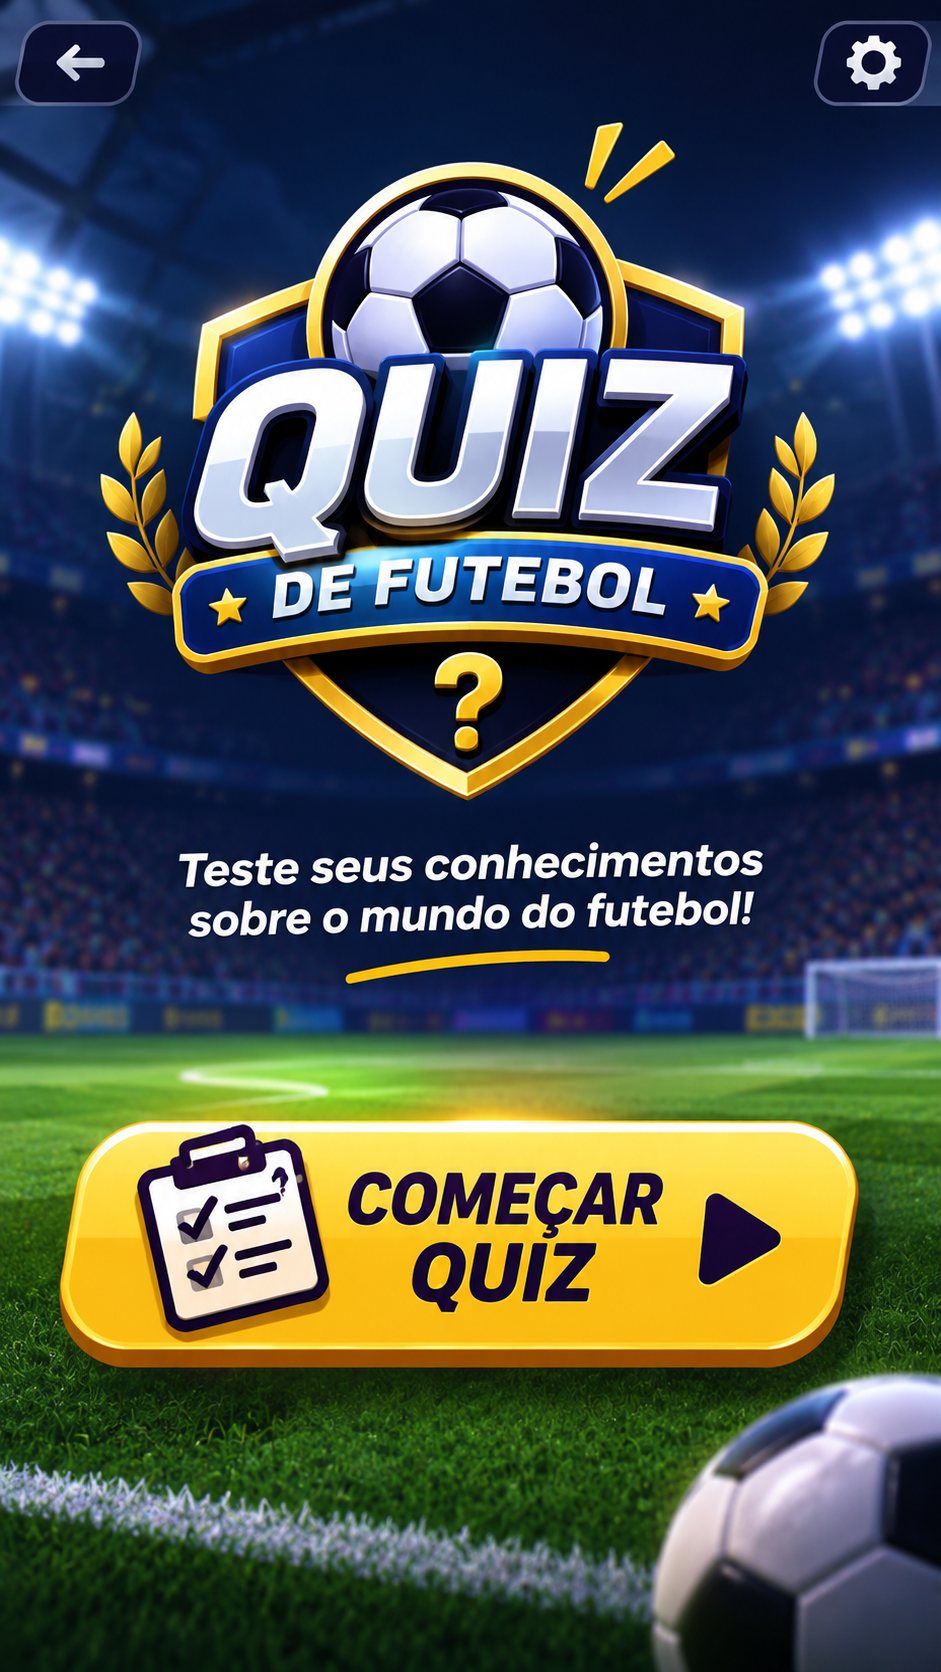
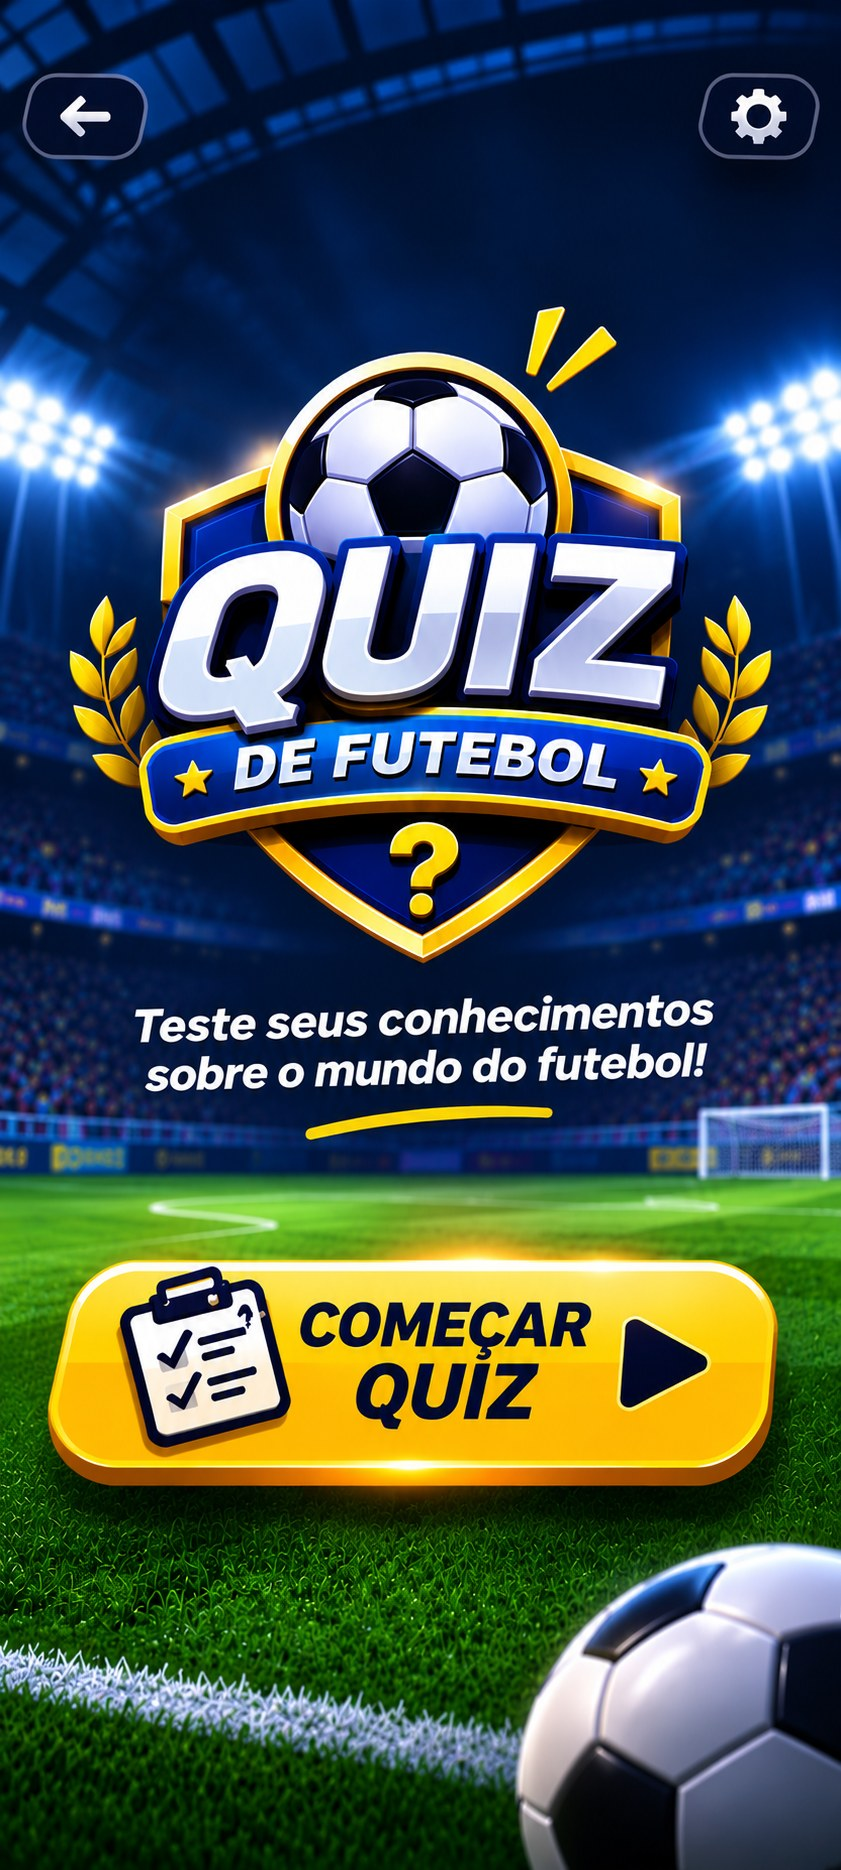
atualiza o jogo

diff --git a/index.html b/index.html
@@ -1098,10 +1098,14 @@ nav.abas button{font-size:11px}
 .modo.quiz{border-color:rgba(108,182,255,.55);background:linear-gradient(90deg,rgba(61,139,255,.16),rgba(10,20,48,.6))}.modo.quiz.pulsa{animation:vivoBrilho 1.2s infinite}
 .qz-capa{position:fixed;inset:0;z-index:5;display:flex;align-items:center;justify-content:center;background:#0b1838;overflow:hidden}
 .qz-capa::before{content:"";position:absolute;inset:-30px;background:url(img/quiz-capa.jpg) center/cover;filter:blur(18px) brightness(.6)}
-.qz-art{position:relative;width:min(100vw,calc(100vh*941/1672));aspect-ratio:941/1672}.qz-art img{width:100%;height:100%;display:block}
+.qz-art{position:relative;width:min(100vw,calc(100vh*841/1870));aspect-ratio:841/1870}.qz-art img{width:100%;height:100%;display:block}
 .qz-hs{position:absolute;background:transparent;border:0;padding:0;cursor:pointer;-webkit-tap-highlight-color:transparent}
-.qz-hs.voltar{left:1.5%;top:1%;width:14%;height:5.6%;border-radius:14px}.qz-hs.engr{left:85.5%;top:1%;width:13.5%;height:5.6%;border-radius:14px}
-.qz-hs.ir{left:6%;top:66.8%;width:86%;height:15%;border-radius:40px;animation:qzIr 1.6s ease-in-out infinite}
+.qz-hs.voltar{left:2.5%;top:3.8%;width:15.5%;height:4.8%;border-radius:14px}.qz-hs.engr{left:82.5%;top:3.8%;width:15%;height:4.8%;border-radius:14px}
+.qz-hs.ir{left:5.23%;top:66.74%;width:87.75%;height:12.19%;border-radius:60px}.qz-hs.ir img{width:100%;height:100%;display:block;pointer-events:none;animation:qzBt 1.1s ease-in-out infinite;transform-origin:center}.qz-hs.ir:active{background:transparent}
+@keyframes qzBt{0%,100%{transform:scale(1);filter:drop-shadow(0 0 0 rgba(255,214,60,0))}12%{transform:scale(1.05)}24%{transform:scale(1)}36%{transform:scale(1.04);filter:drop-shadow(0 0 16px rgba(255,214,60,.8))}50%{transform:scale(1)}}
+.qz-luz{position:absolute;left:7%;top:15.5%;width:86%;height:36.5%;overflow:hidden;pointer-events:none;mix-blend-mode:overlay;-webkit-mask:radial-gradient(ellipse 50% 50% at 50% 50%,#000 70%,transparent 100%);mask:radial-gradient(ellipse 50% 50% at 50% 50%,#000 70%,transparent 100%)}
+.qz-luz::before{content:"";position:absolute;top:-20%;bottom:-20%;left:0;width:35%;background:linear-gradient(100deg,transparent,rgba(255,255,255,.95) 50%,transparent);transform:translateX(-120%) skewX(-18deg);animation:qzLuz 4s ease-in-out infinite}
+@keyframes qzLuz{0%{transform:translateX(-120%) skewX(-18deg)}18%,100%{transform:translateX(320%) skewX(-18deg)}}
 .qz-hs:active{background:rgba(255,255,255,.18)}
 @keyframes qzIr{0%,100%{box-shadow:0 0 0 0 rgba(255,214,60,0)}50%{box-shadow:0 0 26px 6px rgba(255,214,60,.55)}}
 .qz-capa .qz-teste{position:fixed;z-index:6;left:50%;transform:translateX(-50%);bottom:8px}
@@ -1144,7 +1148,9 @@ nav.abas button{font-size:11px}
 @keyframes qzPulsa{0%,100%{transform:scale(1) rotate(0)}25%{transform:scale(1.06) rotate(-3deg)}50%{transform:scale(1.1)}75%{transform:scale(1.06) rotate(3deg)}}
 @keyframes qzGira{to{transform:rotate(360deg)}}
 .qz-caixa .cx-p{width:12px;height:12px;border-radius:3px;left:45%;top:45%;opacity:0;background:var(--c1)}
-.qz-caixa.boom{animation:qzTremeBox .45s linear}.qz-caixa.boom .cx-tampa{animation:qzTampa .6s .4s ease-out forwards}.qz-caixa.boom .cx-corpo,.qz-caixa.boom .cx-fita{animation:qzSome .4s .45s forwards}
+.qz-caixa.boom{animation:qzTremeBox .45s linear}.qz-caixa.boom .cx-tampa{animation:qzTampa .6s .4s ease-out forwards}.qz-caixa.boom .cx-corpo,.qz-caixa.boom .cx-fita{animation:qzSome .4s .45s forwards}.qz-caixa.boom .cx-img{animation:qzCxSai .55s .4s ease-in forwards}
+@keyframes qzCxSai{to{transform:scale(1.5);opacity:0;filter:brightness(2.5)}}
+.qz-caixa .cx-img{position:absolute;left:0;top:0;width:100%;height:100%;object-fit:contain;z-index:2;filter:drop-shadow(0 6px 10px rgba(0,0,0,.5))}
 .qz-caixa.boom .cx-p{animation:qzPart .7s .42s ease-out forwards}
 .qz-caixa.boom .cx-p:nth-of-type(5){--x:-140px;--y:-120px}.qz-caixa.boom .cx-p:nth-of-type(6){--x:140px;--y:-120px}.qz-caixa.boom .cx-p:nth-of-type(7){--x:-170px;--y:30px}.qz-caixa.boom .cx-p:nth-of-type(8){--x:170px;--y:30px}.qz-caixa.boom .cx-p:nth-of-type(9){--x:-60px;--y:-180px}.qz-caixa.boom .cx-p:nth-of-type(10){--x:60px;--y:-180px}
 @keyframes qzTremeBox{0%,100%{transform:scale(1.1)}20%{transform:scale(1.15) rotate(-6deg)}40%{transform:scale(1.2) rotate(6deg)}60%{transform:scale(1.25) rotate(-8deg)}80%{transform:scale(1.3) rotate(8deg)}}
@@ -4906,7 +4912,7 @@ function abrirSeletorCor(inp){
 }
 document.addEventListener("click",ev=>{const i=ev.target.closest&&ev.target.closest('input[type="color"]');if(!i)return;ev.preventDefault();abrirSeletorCor(i)},true);
 /* app instalado: confere se o site tem versão nova e recarrega (o número é trocado pelo publicar-site.sh) */
-const VERSAO="1794859070";
+const VERSAO="1794909116";
 function versaoOk(){if(CARGA.verOk)return;CARGA.verOk=true;if(abertura&&CARGA.intro)render()} // 02/11: a logo só aparece depois de conferir a versão (sem logo dobrada)
 function checarVersao(){
   if(VERSAO.startsWith("__")||!/^https?:/.test(location.protocol)){versaoOk();return}
@@ -10068,7 +10074,7 @@ function quizPremioHTML(pr){if(!pr)return "";
     pts:`<div class="qz-pr-ic qz-coroa">⚽</div><b class="num">${pr.n} atributos</b><span>${(pr.ks||[]).map(k=>{const a=ATRS.find(x=>x[0]===k);return a?a[2]+" "+a[1]:k}).join(" · ")}<br>Use nos seus jogadores em Clube › Pontos de treino</span>`,
     lenda:pr.jog?`<div class="qz-pr-ic">${fotoLendaG(pr.nome,96)}</div><b>★ ${esc(pr.nome)}</b><span>Lenda contratada de graça! Já está no seu elenco.</span>`:pr.tec?`<div class="qz-pr-ic">${tecRosto(pr.nome,96)}</div><b>★ ${esc(pr.nome)}</b><span>Técnico lenda contratado de graça!</span>`:`<div class="qz-pr-ic">★</div><b>Lenda</b>`}[pr.t]||"";
   return `<div class="qz-premio ${pr.t}">${nm}</div>`}
-function caixaHTML(tipo,grande){return `<div class="qz-caixa ${tipo}${grande?" grande":""}"${grande?' data-a="qz_abrir" role="button" aria-label="Abrir a caixa"':""}><i class="cx-luz"></i><i class="cx-tampa"></i><i class="cx-corpo"></i><i class="cx-fita"></i>${grande?'<i class="cx-p"></i><i class="cx-p"></i><i class="cx-p"></i><i class="cx-p"></i><i class="cx-p"></i><i class="cx-p"></i>':""}</div>`}
+function caixaHTML(tipo,grande){return `<div class="qz-caixa ${tipo}${grande?" grande":""}"${grande?' data-a="qz_abrir" role="button" aria-label="Abrir a caixa"':""}><i class="cx-luz"></i><img class="cx-img" src="img/cx-${tipo}.png" alt="">${grande?'<i class="cx-p"></i><i class="cx-p"></i><i class="cx-p"></i><i class="cx-p"></i><i class="cx-p"></i><i class="cx-p"></i>':""}</div>`}
 function telaQuiz(){if(!reLiberado()){aba="jogar";return telaInicio()}const q=quizEstado(),jog=q.fase==="jogando";
   let h=`<div class="qz"><div class="qz-topo">${jog?"<span></span>":`<button class="re-tb" data-a="aba" data-v="jogar">‹ Jogar</button>`}<b class="qz-tit">🧠 Quiz do Dia</b><span></span></div>`;
   if(q.caixa&&!q.aberta){const n=q.pend?q.acAnt:q.ac;
@@ -10083,7 +10089,7 @@ function telaQuiz(){if(!reLiberado()){aba="jogar";return telaInicio()}const q=qu
   else if(q.fase==="fim"){const pr=q.aberta&&q.premio;
     h+=`<div class="qz-meio">${pr?`<p class="qz-tag">Seu prêmio de hoje</p>${quizPremioHTML(pr)}`:q.saiu?`<div class="qz-grande">🚪</div><h2 class="qz-h">Você saiu do jogo</h2><p class="qz-dica">O quiz de hoje foi perdido.</p>`:`<div class="qz-grande">😬</div><h2 class="qz-h">${q.mot==="tempo"?"O tempo acabou!":"Errou a primeira!"}</h2><p class="qz-dica">Não foi dessa vez.</p>`}
       <div class="qz-volta"><small>Novo quiz em</small><b class="num" id="qz-relogio">${fmtRelogio(quizMeiaNoite()-Date.now())}</b></div></div>`}
-  else{h=`<div class="qz-capa"><div class="qz-art"><img src="img/quiz-capa.jpg" alt="Quiz de Futebol"><button class="qz-hs voltar" data-a="aba" data-v="jogar" aria-label="Voltar"></button><button class="qz-hs engr" data-a="splajustes" aria-label="Ajustes"></button><button class="qz-hs ir" data-a="qz_comecar" aria-label="Começar quiz"></button></div>`} // 14/11: arte do Carlos (img/quiz-capa.jpg) com áreas de toque
+  else{h=`<div class="qz-capa"><div class="qz-art"><img src="img/quiz-capa.jpg" alt="Quiz de Futebol"><i class="qz-luz"></i><button class="qz-hs voltar" data-a="aba" data-v="jogar" aria-label="Voltar"></button><button class="qz-hs engr" data-a="splajustes" aria-label="Ajustes"></button><button class="qz-hs ir" data-a="qz_comecar" aria-label="Começar quiz"><img src="img/quiz-botao.png" alt=""></button></div>`} // 17/11 capa nova: botão recortado pulsando + luz no logo; 14/11: arte do Carlos (img/quiz-capa.jpg) com áreas de toque
   if(!jog&&reLiberado())h+=`<button class="qz-teste" data-a="qz_reset">🔄 Zerar quiz (teste do Carlos)</button>`; // botão de teste: só o Carlos vê
   return h+"</div>"}
 function quizAcao(a,v){switch(a){
